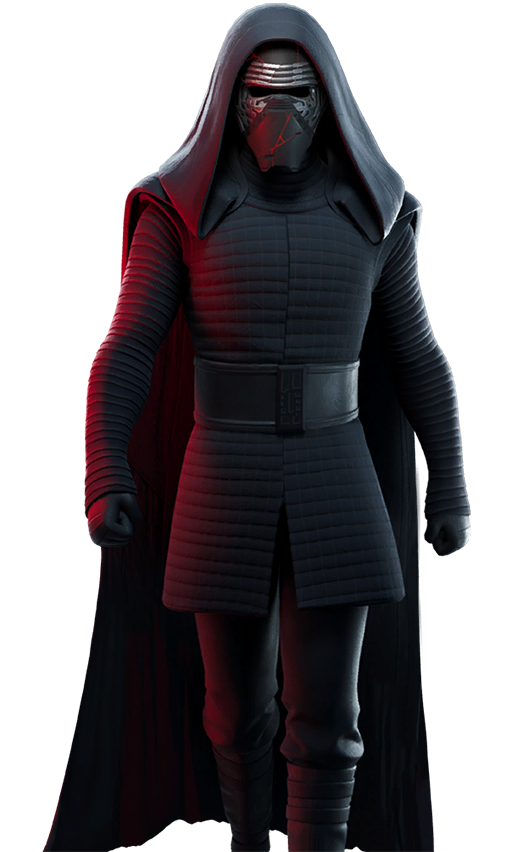
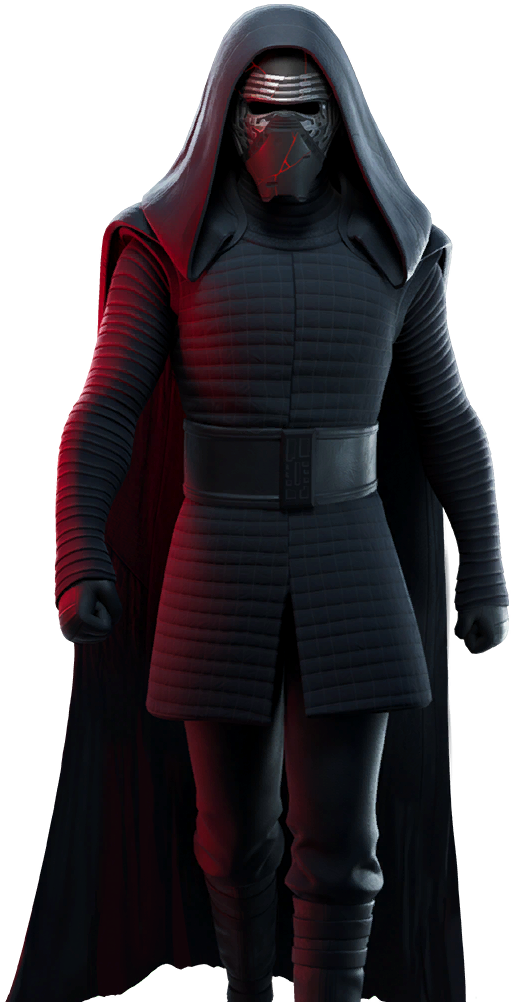
update 20_12

Changed region(s): [[0.0, 0.0, 0.9981, 1.0], [0.499, 0.6103, 0.6238, 1.0], [0.1559, 0.946, 0.4678, 1.0]]

diff --git a/projects/cine_web/css/portail.css b/projects/cine_web/css/portail.css
@@ -56,7 +56,7 @@ body {
 .kylo_ren {
     position: absolute;
     right: 1500px;
-    top: 77px;
+    top: 50px;
 }
 
 .spiderman {
